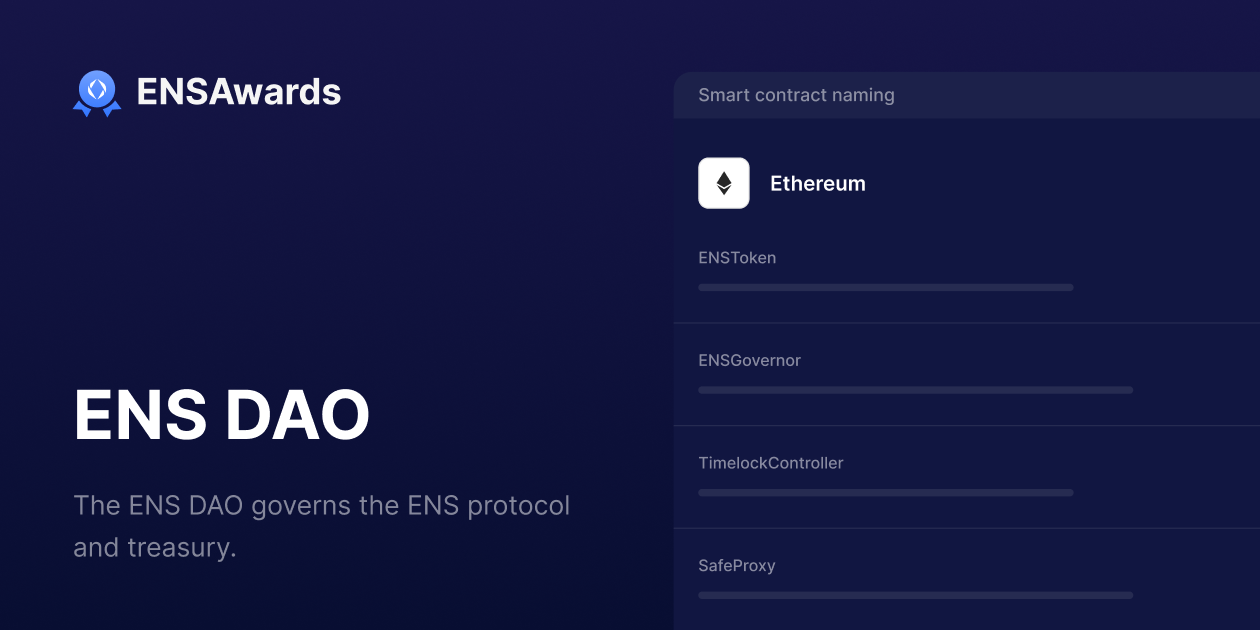
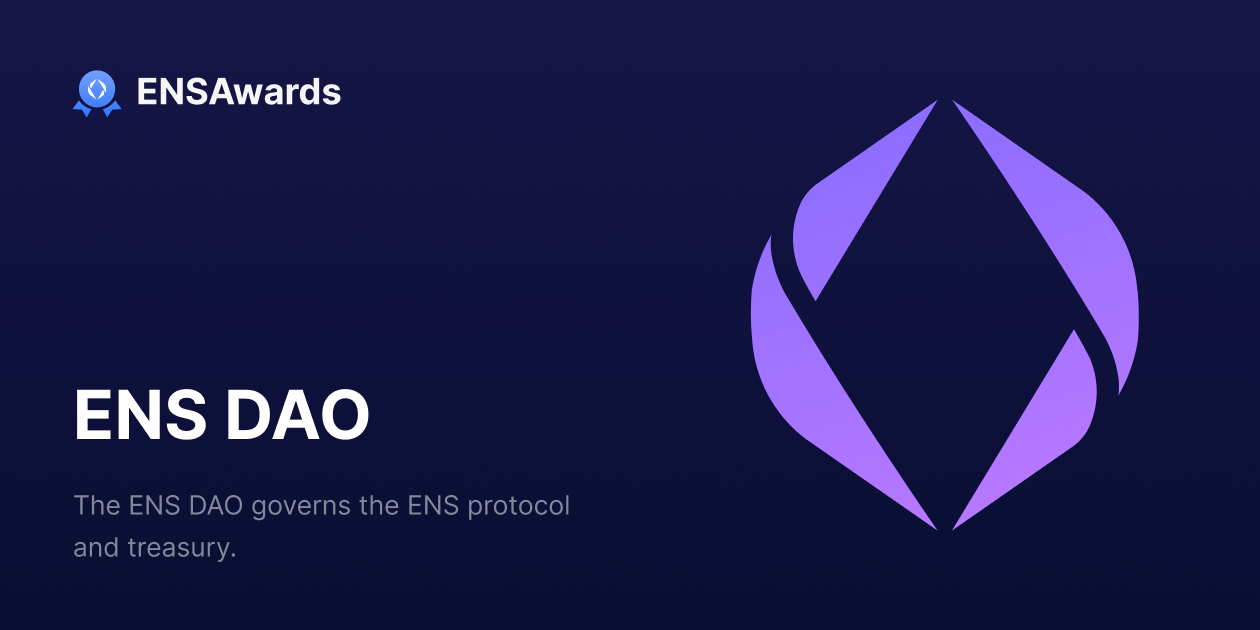
Update of selected OG images and image fallback mechanism for DAOs

Changed region(s): [[0.5262, 0.1206, 0.9286, 0.8444], [0.5571, 0.9349, 0.8976, 0.9651], [0.5571, 0.8746, 0.619, 0.9048]]

diff --git a/ensawards.org/src/utils/ogImages.ts b/ensawards.org/src/utils/ogImages.ts
@@ -1,0 +1,23 @@
+import {type OrgId, OrgIds} from "@/types/organizations.ts";
+
+export const DEFAULT_OG_IMAGE = "/og_image.png";
+export const DEFAULT_TWITTER_IMAGE = "/twitter_og_image.png";
+
+export const ORG_OG_IMAGES = new Map<OrgId, string>([
+    [OrgIds.Ens, "/org-ens-dao_og_image.png"],
+    [OrgIds.Uniswap, "/org-uniswap-dao_og_image.png"],
+]);
+
+export const ORG_TWITTER_IMAGES = new Map<OrgId, string>([
+    [OrgIds.Ens, "/org-ens-dao_twitter_og_image.png"],
+    [OrgIds.Uniswap, "/org-uniswap-dao_twitter_og_image.png"],
+]);
+
+export const getOrgOgImagePath = (orgId: OrgId): string | undefined => {
+    return ORG_OG_IMAGES.get(orgId) || DEFAULT_OG_IMAGE;
+}
+
+
+export const getOrgTwitterImagePath = (orgId: OrgId): string | undefined => {
+    return ORG_TWITTER_IMAGES.get(orgId) || DEFAULT_TWITTER_IMAGE;
+}
